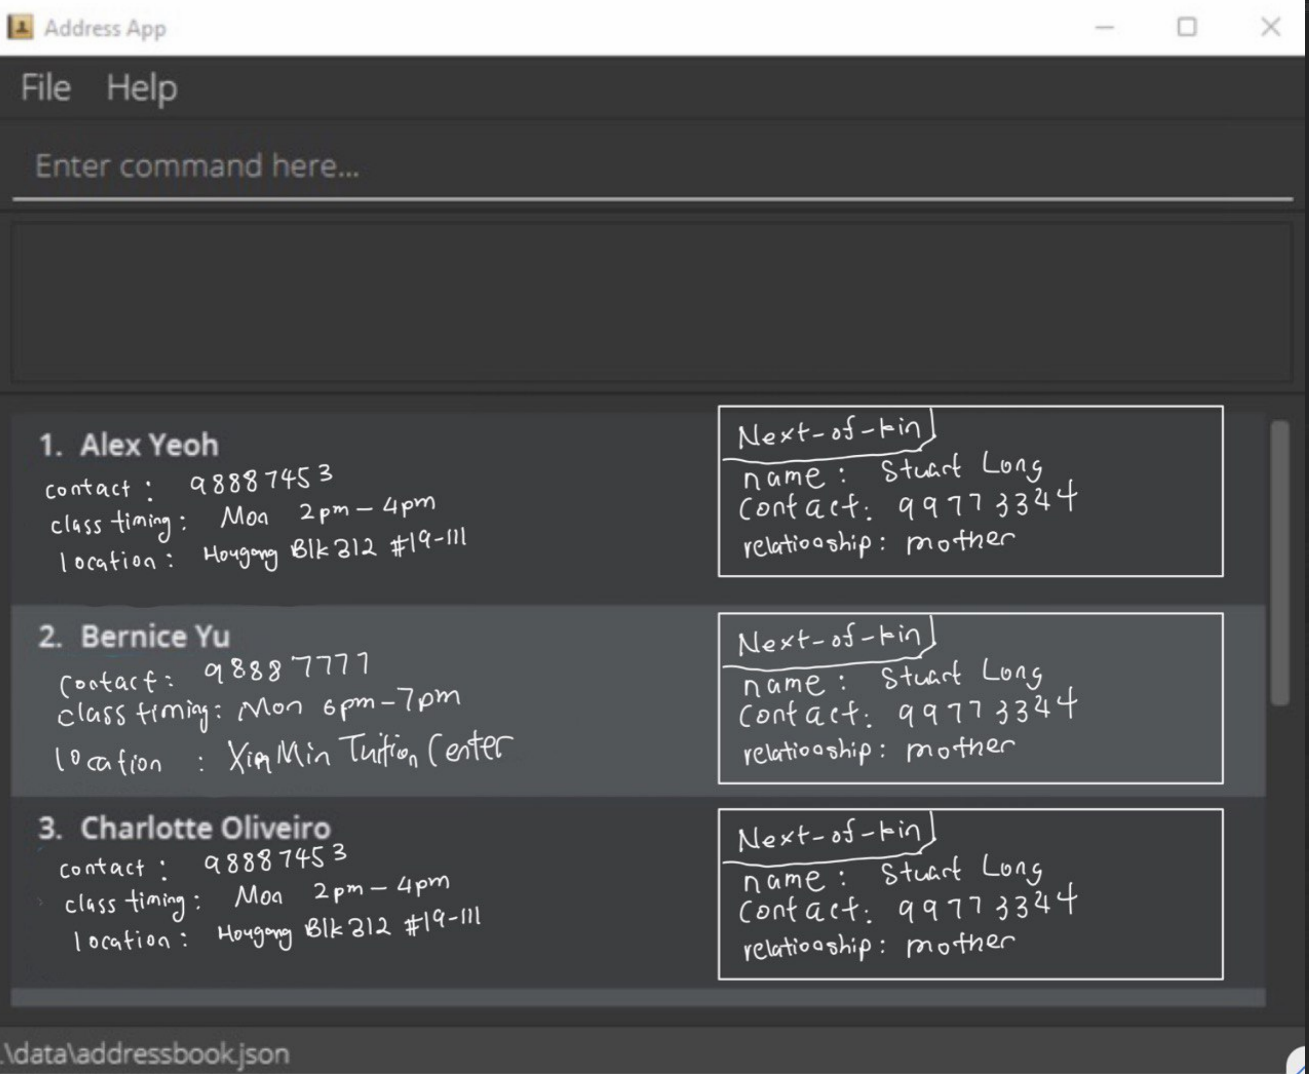
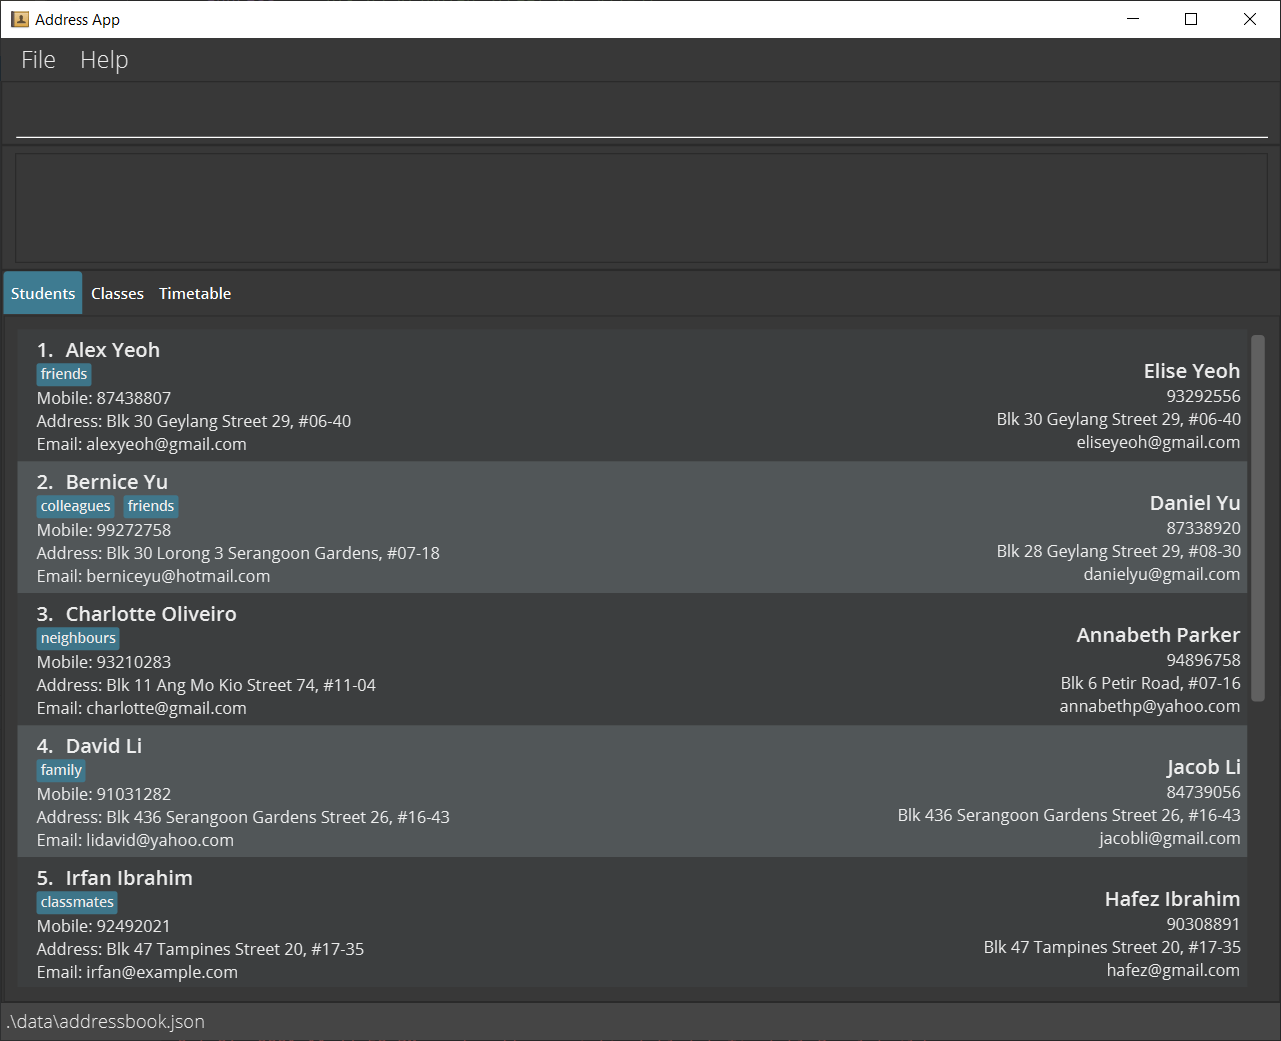
Edit Landing Page
- Add features
- Add images

diff --git a/src/main/java/seedu/address/ui/HelpWindow.java b/src/main/java/seedu/address/ui/HelpWindow.java
@@ -15,7 +15,7 @@ import seedu.address.commons.core.LogsCenter;
  */
 public class HelpWindow extends UiPart<Stage> {
 
-    public static final String USERGUIDE_URL = "https://se-education.org/addressbook-level3/UserGuide.html";
+    public static final String USERGUIDE_URL = "https://ay2122s1-cs2103t-f11-1.github.io/tp/UserGuide.html";
     public static final String HELP_MESSAGE = "Refer to the user guide: " + USERGUIDE_URL;
 
     private static final Logger logger = LogsCenter.getLogger(HelpWindow.class);

diff --git a/docs/index.md b/docs/index.md
@@ -1,19 +1,40 @@
 ---
 layout: page
-title: AddressBook Level-3
+title: TimesTable
 ---
 [![codecov](https://codecov.io/gh/AY2122S1-CS2103T-F11-1/tp/branch/master/graph/badge.svg?token=NNN2J2NDB2)](https://codecov.io/gh/AY2122S1-CS2103T-F11-1/tp)
-
 [![CI Status](https://github.com/se-edu/addressbook-level3/workflows/Java%20CI/badge.svg)](https://github.com/se-edu/addressbook-level3/actions)
-[![codecov](https://codecov.io/gh/se-edu/addressbook-level3/branch/master/graph/badge.svg)](https://codecov.io/gh/se-edu/addressbook-level3)
 
 ![Ui](images/Ui.png)
 
-**AddressBook is a desktop application for managing your contact details.** While it has a GUI, most of the user interactions happen using a CLI (Command Line Interface).
+**TimesTable is a desktop app for managing your tuition students and classes, optimized for use via a Command Line Interface (CLI) while still having the benefits of a Graphical User Interface (GUI).**
+While it has a GUI, it can be controlled by typing in commands using the CLI.
+If you can type fast, TimesTable can get your class management tasks done faster than traditional GUI apps.
 
-* If you are interested in using AddressBook, head over to the [_Quick Start_ section of the **User Guide**](UserGuide.html#quick-start).
-* If you are interested about developing AddressBook, the [**Developer Guide**](DeveloperGuide.html) is a good place to start.
+* If you are interested in using TimesTable, head over to the [_Quick Start_ section of the **User Guide**](UserGuide.html#quick-start).
+* If you are interested about developing TimesTable, the [**Developer Guide**](DeveloperGuide.html) is a good place to start.
 
+##Features
+###Student Management
+![Ui](images/Ui.png)
+
+TimesTable supports all basic contact management commands such as adding of students, editing of contact info,
+deleting students, finding students, sorting, etc. Furthermore, TimesTable also stores the Next-of-Kin(NOK) information of the student,
+which is important and often used. This is displayed to the right of the student information.
+
+###Class Management
+![ClassList](images/ClassList.png)
+
+TimesTable allows users to easily create and manage their classes. The Class tab shows all the information
+about your various classes at a glance, with the student information in the sidebar on the right. Users can 
+easily add and remove students from the various classes using the commands. The class list can also be filtered
+to search for a  specific class.
+
+###View Timetable
+![Timetable](images/Timetable.png)
+
+TimesTable automatically generates a timetable for you based on the classes that you have added.
+Simply head over to the Timetable tab by clicking on it or using the view command.
 
 **Acknowledgements**
 

diff --git a/docs/AboutUs.md b/docs/AboutUs.md
@@ -5,8 +5,6 @@ title: About Us
 
 We are a team based in the [School of Computing, National University of Singapore](http://www.comp.nus.edu.sg).
 
-You can reach us at the email `seer[at]comp.nus.edu.sg`
-
 # Project team
 
 ### Bernard Wan De Yuan
